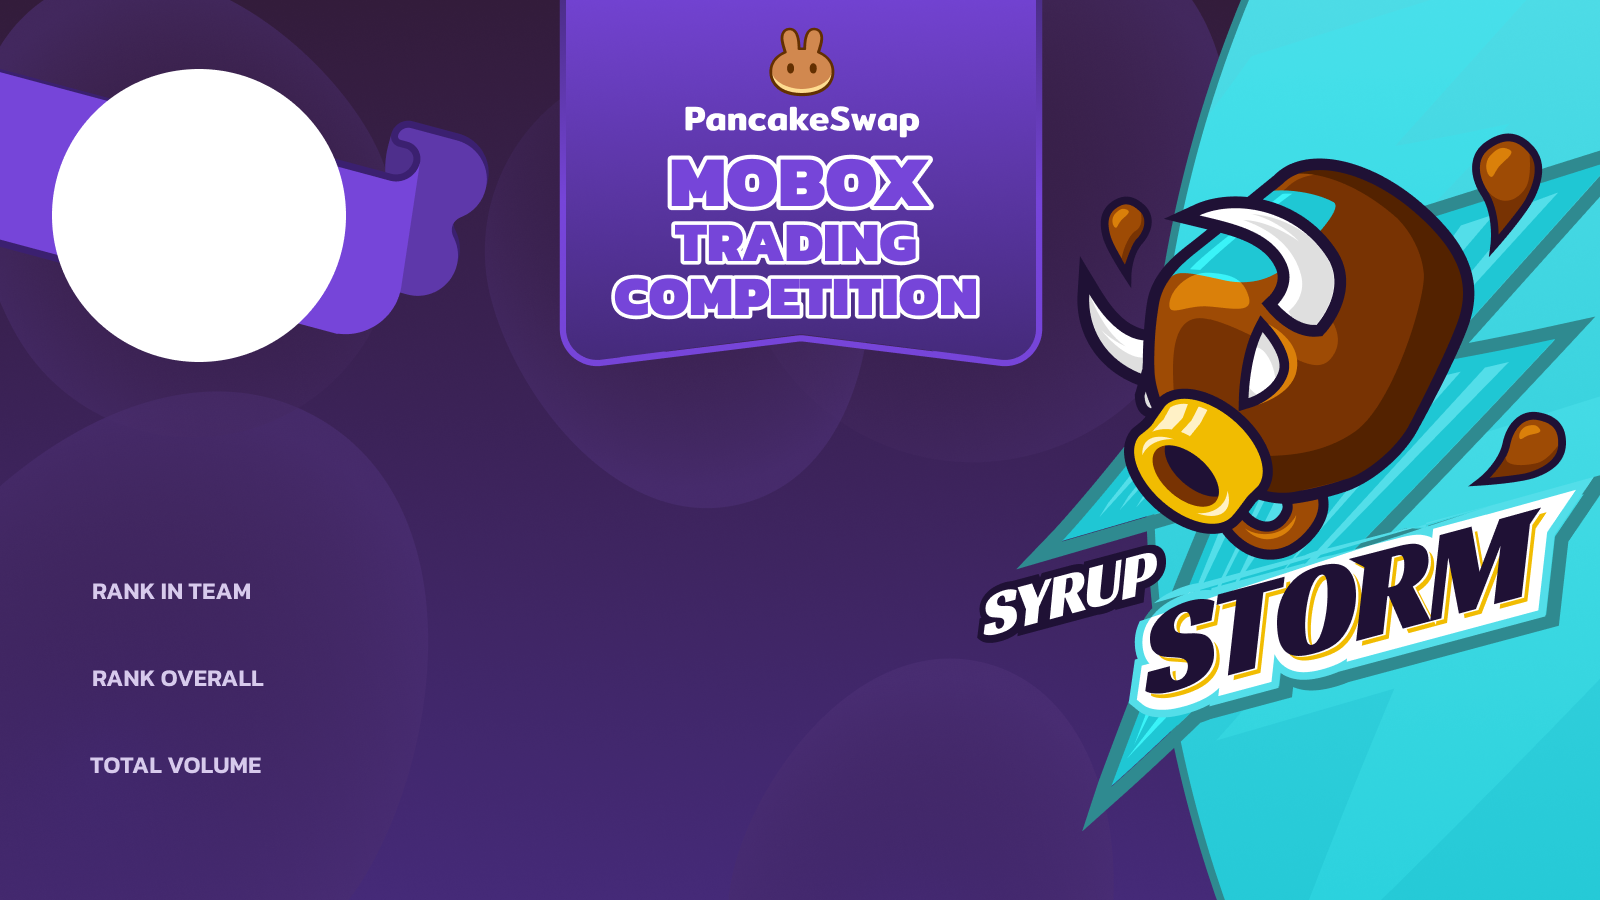
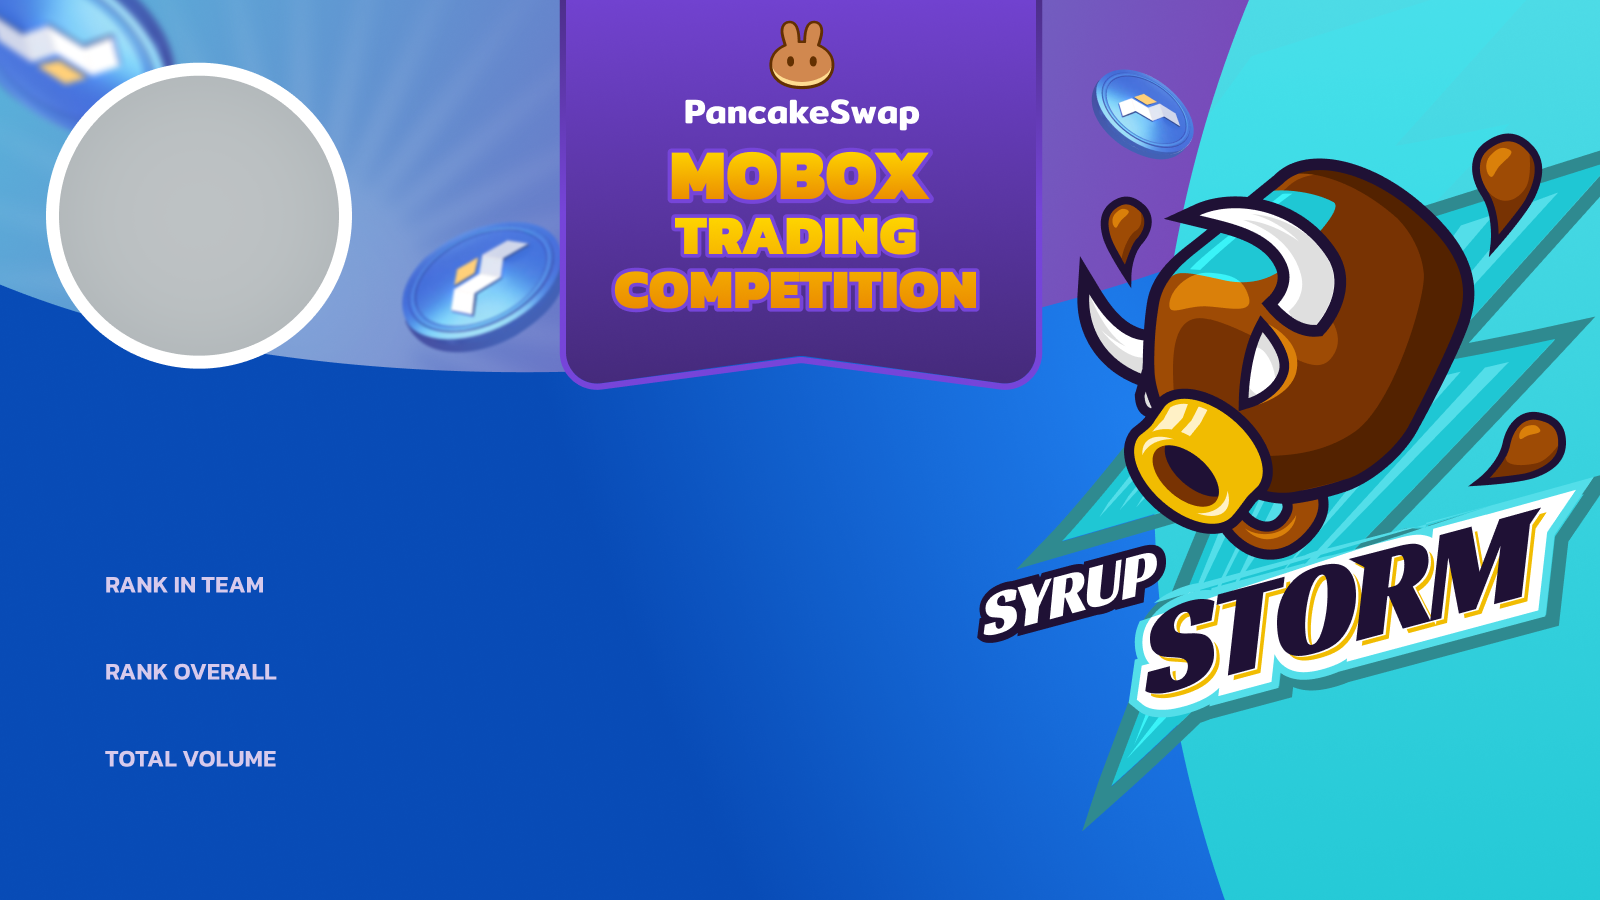
fix: Update share image (#3680)

diff --git a/src/views/TradingCompetition/components/ShareImageModal.tsx b/src/views/TradingCompetition/components/ShareImageModal.tsx
@@ -5,7 +5,7 @@ import { useTranslation } from 'contexts/Localization'
 import FlippersShare from '../pngs/mobox-flippers-share.png'
 import StormShare from '../pngs/mobox-storm-share.png'
 import CakersShare from '../pngs/mobox-cakers-share.png'
-import ProfileMask from '../pngs/share-profile-mask.png'
+import ProfileMask from '../pngs/mobox-share-profile-mask.png'
 import MedalGold from '../pngs/medals/medal-gold.png'
 import MedalSilver from '../pngs/medals/medal-silver.png'
 import MedalBronze from '../pngs/medals/medal-bronze.png'
